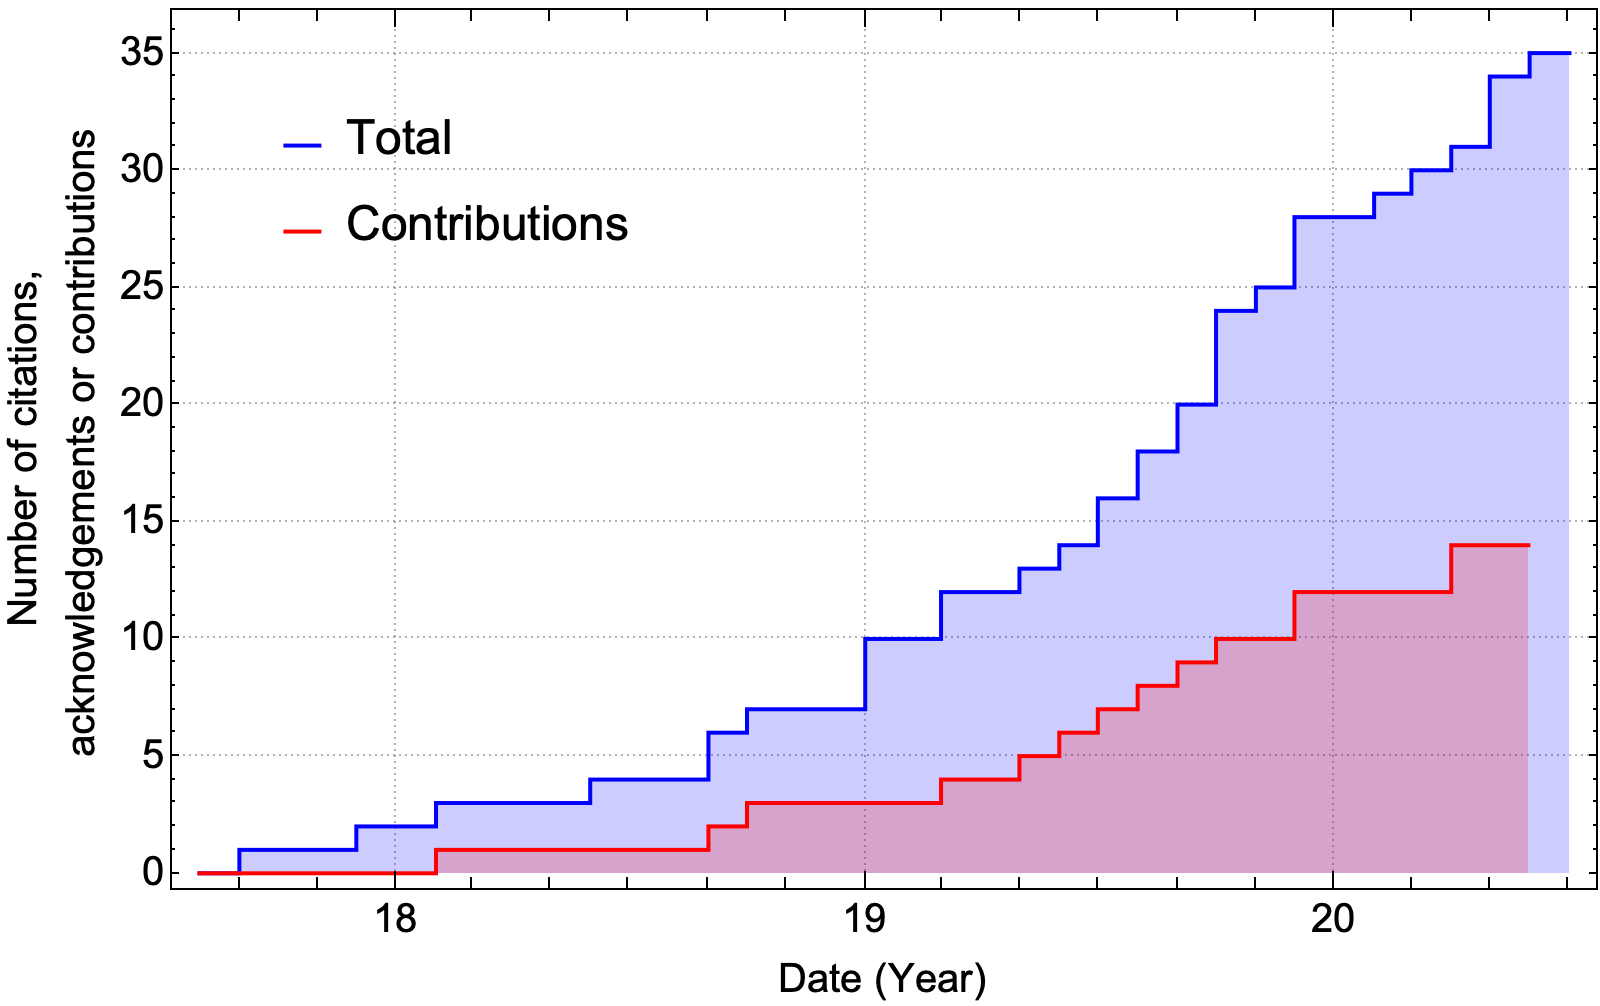
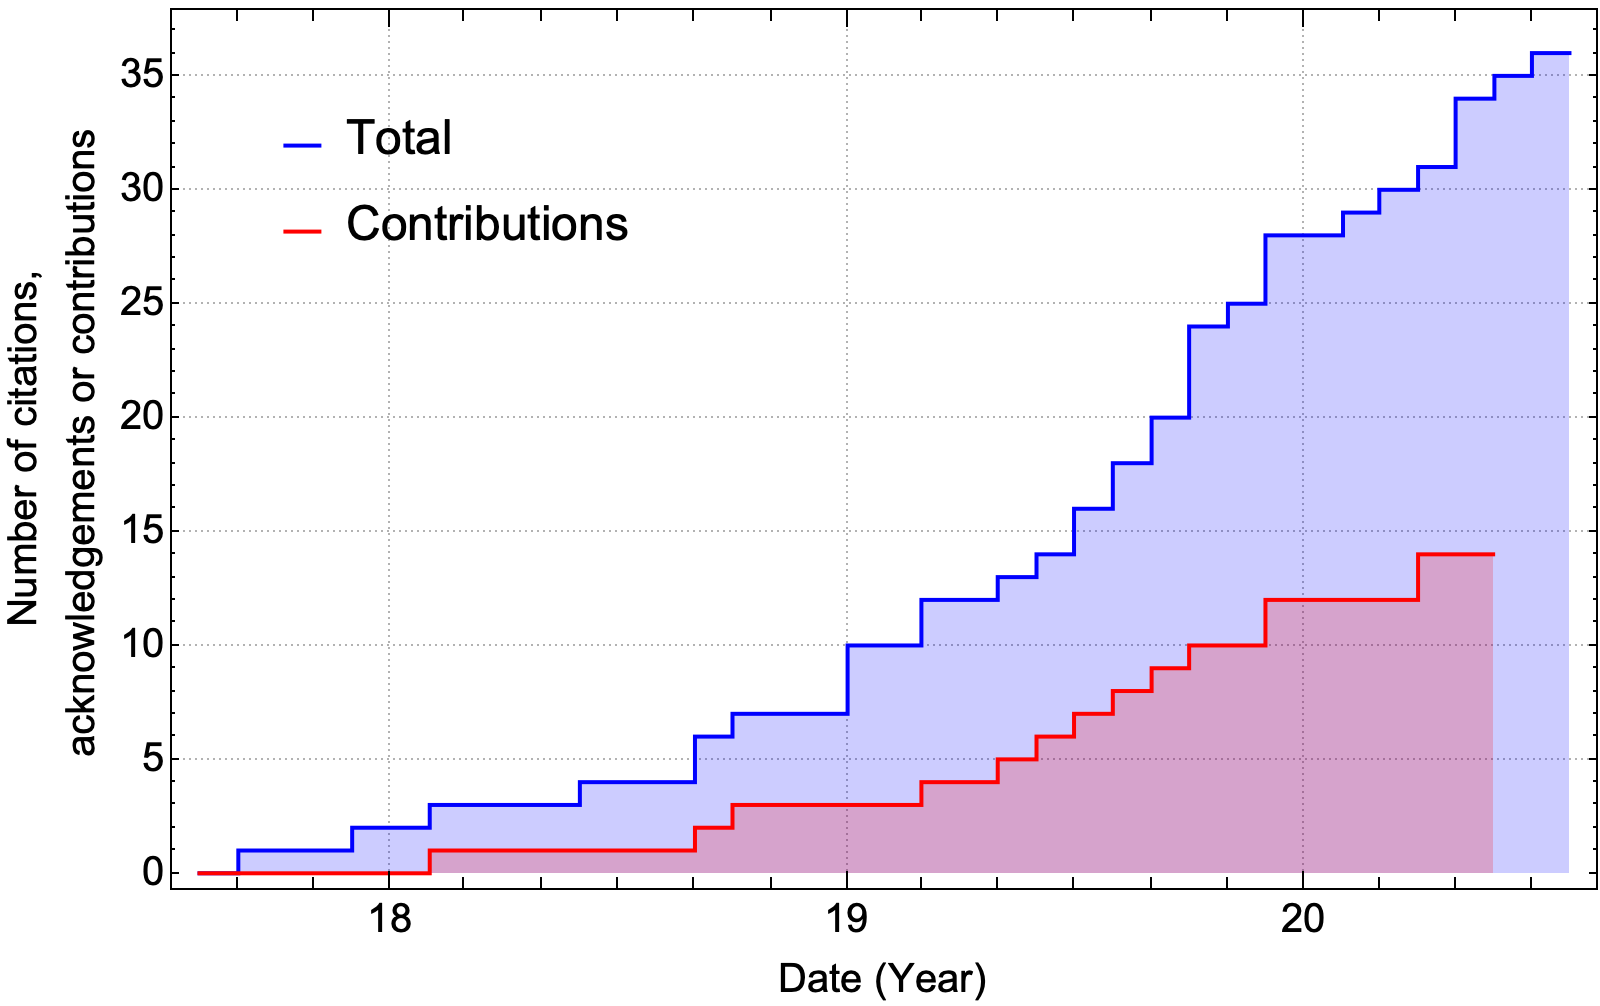
Add paper that cites the Toolkit

diff --git a/users.md b/users.md
@@ -19,6 +19,8 @@ The graph below show the accumulated citations to the Toolkit over time. The blu
 
 Below is a list of research papers that have used or extended the Toolkit. Papers that have contributed code or data to the Toolkit have a (*) after them.
 
+36\. "An alternative to the Teukolsky equation", Yasuyuki Hatsuda, [arXiv:2007.07906](https://arxiv.org/abs/2007.07906)
+
 35\. "Intermediate mass-ratio black hole binaries: Applicability of small mass-ratio perturbation theory", Maarten van de Meent, Harald P. Pfeiffer, [arXiv:2006.12036](https://arxiv.org/abs/2006.12036)
 
 34\. "Modeling and detecting resonant tides of exotic compact objects", Kwinten Fransen, Gideon Koekoek, Rob Tielemans, Bert Vercnocke, [arXiv:2005.12286](https://arxiv.org/abs/2005.12286), 
